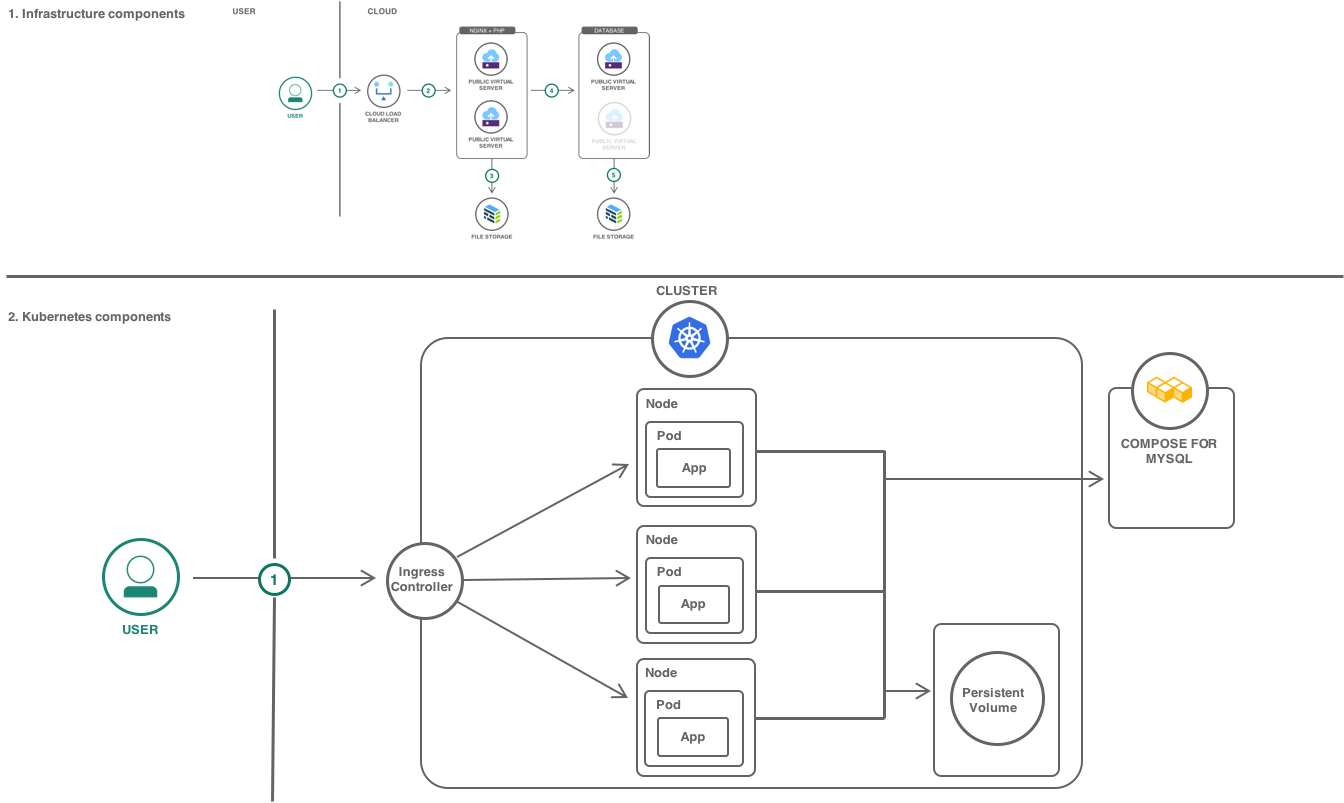
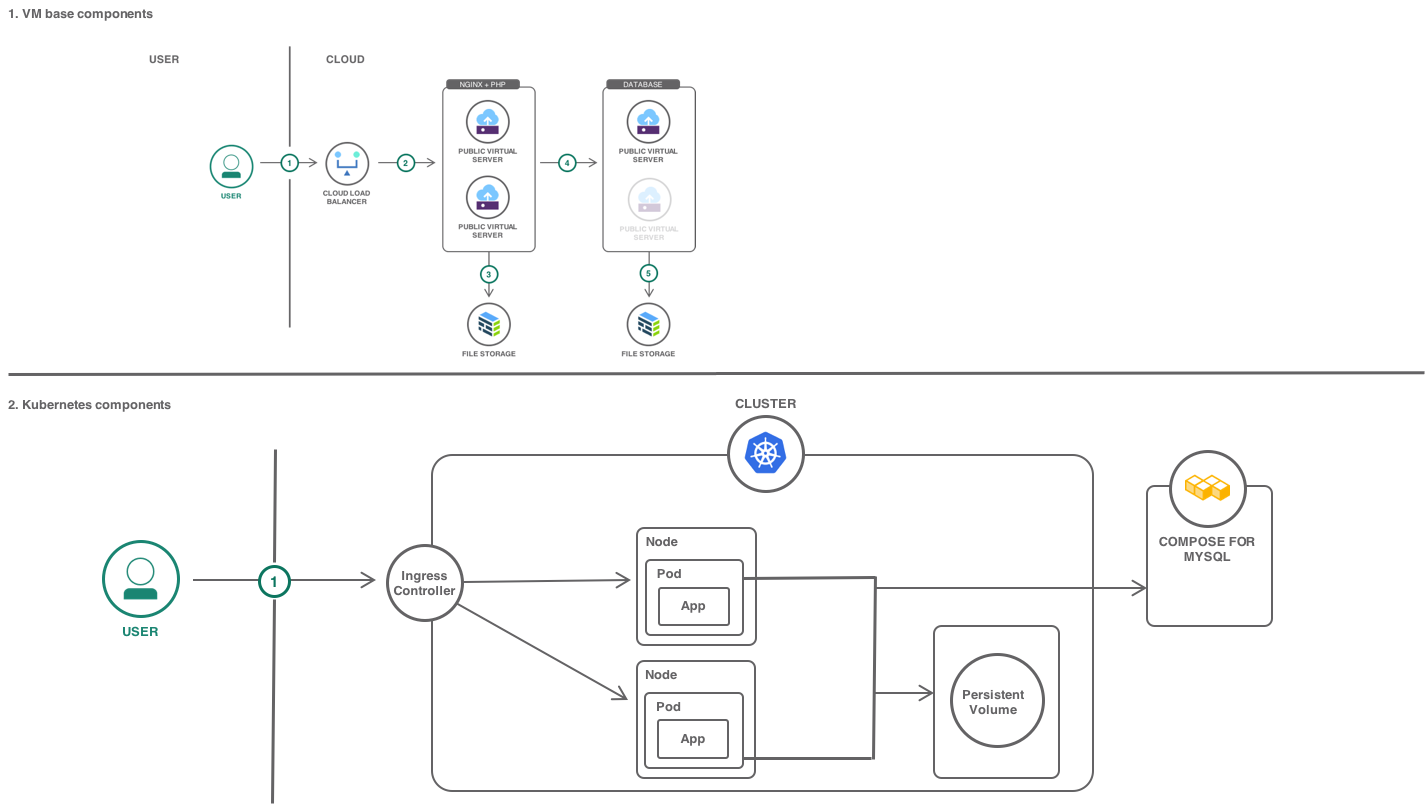
Solution 30 layout

diff --git a/infrastructure-to-kubernetes.md b/infrastructure-to-kubernetes.md
@@ -1,7 +1,7 @@
 ---
 copyright:
   years: 2017, 2018
-lastupdated: "2018-04-16"
+lastupdated: "2018-04-20"
 ---
 
 {:shortdesc: .shortdesc}
@@ -11,78 +11,183 @@ lastupdated: "2018-04-16"
 {:tip: .tip}
 {:pre: .pre}
 
-# Move an existing infrastructure application to Kubernetes
+# Understand how to move a VM based application to Kubernetes
 
-In this tutorial, you will learn the process of moving an existing WordPress infrastructure application to Kubernetes. You will learn the process of containerizing a WordPress infrastructure applications. For this example, we are going to move a current infrastructure WordPress site that covered in details [here](highly-available-and-scalable-web-application.html). We will explore all the components needed when moving to Kubernetes. You will learn how to handle Kubernetes worker nodes, file storage, databases, scaling, and backups. 
+In this tutorial, you will learn the process of migrating a VM based WordPress application to Kubernetes. For this example, we have selected an [existing solution tutorial](highly-available-and-scalable-web-application.html) that contains multiple VM's running a WordPress application with a MySQL database server, FileStorage for backups, and a load balancer. We will explore the process involved when moving these components to Kubernetes. 
 
-Migrating legacy applications to Kubernetes can be different from application to application, but the process is the same, so we will focus on the process and not so much the type of application we are migrating. Most production applications have some of these components, a number of application servers, load balancer, auto-scaler, database, file storage and backup system, so let's cover these base components when running such application on Kubernetes.
 
-**How to plan a migration and what to consider?**
 
-Looking at the diagram below, let's first identify the components within the existing infrastructure application and compare that with the Kubernetes section, let's outline the different components for each setup. 
+## Architecture
 
-**1. Infrastructure components:** 
+{:#architecture}
 
-- Multiple virtual servers to host the application
-- Separate file storage service to store files between application servers
-- Load balancer service to load balance traffic between application servers 
-- Database installed and setup on a virtual server  
-- Another file storage service to backup database data
-
-**2. Kubernetes components:** 
-
-- One Kubernetes cluster to manage application nodes 
-- Multiple worker nodes to store the application, think of this like virtual servers in the Infrastructure components step one.
-- PersistentVolume to share files worker nodes, this comes built in with Kubernetes and no service is needed for this.
-- Kubernetes Ingress Controller used to load balance between worker nodes, this comes built in with Kubernetes and no need for a separate load balancer service.
-- Database as service, the advantage of using a Database as service is that you no longer need to handle manual backups and database scaling, which comes out of the box with most IBM database as service offerings. For this tutorial we will use [Compose for MySQL](https://console.bluemix.net/catalog/services/compose-for-mysql) but you can any other database as service like Compose for MongoDB or Cloudant. See full list of IBM Databases services in the [catalog](https://console.bluemix.net/catalog/?category=data). 
+The following diagram outlines the system's high-level architecture.
 
 <p style="text-align: center;">
 ![Architecture diagram](images/solution30/Architecture.png)
 </p>
 
+Above architecture diagram contains two sections, the top section is what we have, and the bottom part is what we want to accomplish. First, let's understand the components of each section. 
+
+**1. VM base components:** 
+
+- Two virtual servers to host the application
+- File storage service to store files between application servers
+- Load balancer service to load balance traffic between application servers 
+- MySQL database installed on a Virtual Server 
+- File storage service to backup database data
+
+**2. Kubernetes components:** 
+
+- One Kubernetes cluster configured to hold up to 4 worker nodes, when setting up the cluster, you can select any number of nodes needed, but we selected four nodes to cover beyond the need of this tutorial example for safety reasons. 
+- Two worker nodes to store the application, the cluster capacity set to be able to increase the node replicate up to 4 nodes. 
+- PersistenVolume storage to share files worker nodes, this comes built in with Kubernetes on IBM Cloud. Using the paid cluster on IBM Cloud, a storage service gets created with the requested PersistenVolume size. 
+- Kubernetes Ingress controller used to load balance between worker nodes.
+- Compose For MySQL service to store the database. With Kubernetes you have the option to run a database on a separate node inside docker, but we have selected the Database As Service option for few reasons. IBM Compose database services and many other databases as services come with built-in backup snapshots and auto-scaling, so we don't need to worry about backups and scaling. For that reason, we have selected the Database as a service option. You can find many databases as services on IBM Cloud [catalog](https://console.bluemix.net/catalog/?category=data). 
+
+Following this tutorial results in:
+
+- Understand the process involved when moving applications to Kubernetes. 
+- Your VM based application, packaged as a Docker container and pushed to your cluster.
+
 ## Objectives:
 
-- Create a Kubernetes cluster 
-- Configure a PersistentVolume in the Kubernetes cluster
-  - [Create volumes.yml]()
-  - [Create your Kubernetes volumes]()
-- Create Compose for MySQL service 
-  - Configure Compose for MySQL service 
-- Deploy WordPress to Kubernetes
-  - [Configure the Docker file]()
-  - [Build & push the Docker image]()
-  - [Create wordpress.yml]()
-  - [Details of wordpress.yml]()
-  - [Create your WP instance on Kubernetes]()
-- Use Ingress Controller to load balance between nodes 
-  - Configure Ingress Controller 
-- Scale application nodes 
-- Configure DevOps delivery pipeline (optional)
-- Setup Slack notifications (optional)
-- Advantages of Kubernetes
-  - Scaling 
-  - Management and flexibility 
-  - Security using Vulnerability Advisor 
-  - … add more here
-- Clean up resources
+{: #objectives}
 
-## Cost
+- Why use Kubernetes, what to migrate and how to plan a migration.
+- Create a Kubernetes cluster, gain access to your cluster, download the tools required.
+- Create and configure Compose for MySQL service, copy existing database.
+- Prepare Kubernetes deployment templates, create PersistentVolume storage.
+- Deploy the packaged Docker container to your cluster.
+- Manually scale application worker nodes and test the load balancer.
+- Expand the tutorial by adding, DevOps continuous delivery pipeline, slack notifications and, monitoring services.
+
+## Products
+
+{: #products}
+
+This tutorial uses the following products:
+
+- [Kubernetes](https://console.bluemix.net/containers-kubernetes/catalog/cluster/create)
+- [Compose for MySQL](https://console.bluemix.net/catalog/services/compose-for-mysql)
+
+## Cost 
 
 {: #cost}
 
 This tutorial uses billable components of IBM Cloud Platform, including: 
 
 - [Kubernetes](https://console.bluemix.net/containers-kubernetes/catalog/cluster/create)
-- [Compose for MySQL](https://console.bluemix.net/catalog/services/compose-for-mysql)
 
 Use the [Pricing Calculator](https://console.bluemix.net/pricing/) to generate a cost estimate based on your projected usage.  
 
+## Why use Kubernetes, what to migrate and how to plan a migration
+
+{: #why_kubernetes}
+
+Before we talk about what to migrate and how, let's discuss the why use Kubernetes. 
+
+**Why use Kubernetes**
+
+- High availability, Kubernetes delivers high availability is by treating each instance of software as a disposable entity in which called [Pods](https://kubernetes.io/docs/concepts/workloads/pods/pod/). 
+- Performance and Scalability, Kubernetes makes it easy to run many copies of the same service with [Deployments and Replica Sets](https://kubernetes.io/docs/concepts/workloads/controllers/deployment/).
+- Security, Kubernetes provides really powerful tools to specify what containers are allowed to do via [pod security policies](https://kubernetes.io/docs/concepts/policy/pod-security-policy/) and [network policies](https://kubernetes.io/docs/concepts/services-networking/network-policies/).
+- Load Balancing traffic, Ingress controller, can handle load balancing traffic between worker nodes simultaneously. 
+
+**What to migrate**
+
+In the VM's based application, there are components like the application VM's, load balancer, database server, file storage. For this given solution example, we are going to migrate everything and move the full application to Kubernetes, but this can not always be the case, sometimes you may only want to migrate the application runtime and keep the database in your existing environment or just migrate a microservice within your application. 
+
+**How to plan migration**
+
+Planning your migration is probably the most important of all, let's cover the steps required to plan a migration. 
+
+1. Breakdown the existing solution into separate components. In the existing VM based application, we identified the following, application VM's, load balancer, file storage to share files between applications, Database server, and backup.
+
+2. Understand existing component and if moved to Kubernetes. 
+
+3. Migration order process:
+
+   - Backup existing application database and source code. 
+   - Setup your Kubernetes cluster, gain access to your cluster, download the tools required.
+   - Create and configure Compose for MySQL service, copy existing database to the newly created database as a service.
+   - Prepare Kubernetes deployment templates, create PersistentVolume storage.
+   - Deploy the packaged Docker container to your cluster.
+
+4. Test the application, test the database, test the load balancer, configure database backup policies. 
+
+5. Next, you should explore what else can be added when using Kubernetes, things like auto-scaling, setup DevOps pipeline, monitoring, and security. We will cover these additional improvements forwarder down the tutorial.
+
+   
+
+## Create a Kubernetes cluster 
+
+{: #create_cluster}
+
+ToDo... 
+
+## Create and configure a Database 
+
+{: #create_database}
+
+ToDo... 
+
+### Configure Compose for MySQL service 
+
+ToDo... 
+
+### Copy Database to the newly created database service 
+
+ToDo... 
+
+## Create Kubernetes deployment templates
+
+{: #create_deployment}
+
+ToDo... 
+
+### Configure a PersistentVolume in the Kubernetes cluster
+
+{: #configure_persistent_volume}
+
+ToDo... 
+
+## Deploy WordPress to Kubernetes
+
+{: #deploy_to_kubernetes}
+
+ToDo... 
+
+### Build & push the Docker image
+
+ToDo... 
+
+### Deploy to Kubernetes 
+
+ToDo... 
+
+## Manually scale application, test the load balancer
+{: #scaling_and_testing}
+
+ToDo... 
+
+## Expand the tutorial 
+
+{: #expand_tutorial}
+
+ToDo... add pointers to other solutions for 
+- DevOps - continuous delivery pipeline
+- Monitoring
+- Security 
+- Slack notifications 
 
 
-Solution Development Steps 
+## Clean up resources
+{: #clean_up_resources}
 
-Step 1) 
+ToDo... 
 
+## Related Content
+{: #related_content}
 
-
+ToDo... 
